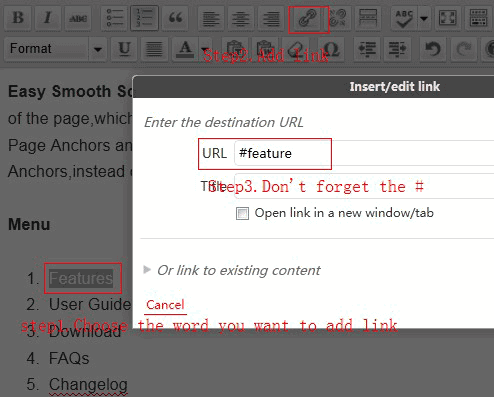
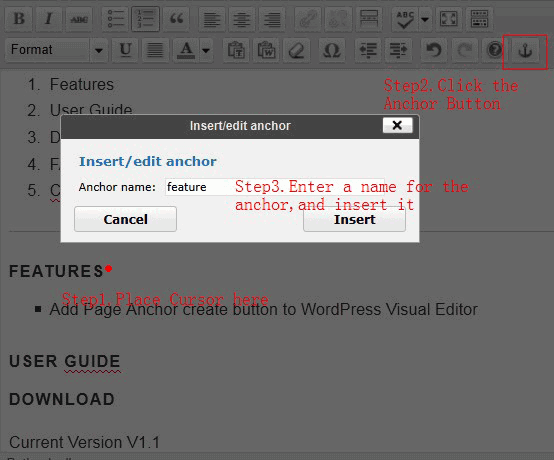
git-svn-id: https://plugins.svn.wordpress.org/easy-smooth-scroll-links/trunk@420375 b8457f37-d9ea-0310-8a92-e5e31aec5664

diff --git a/easy_smooth_scroll_links.php b/easy_smooth_scroll_links.php
@@ -3,7 +3,7 @@
 Plugin Name: Easy Smooth Scroll Links
 Plugin URI: http://www.92app.com/wordpress-plugins/easy-smooth-scroll-links
 Description:Adds smoth scrolling effect to links that link to other parts of the page,which are called "Page Anchors".Extremely useful for setting up a menu which can send you to different section of a post.
-Version: 1.0
+Version: 1.1
 Author: Jeriff Cheng
 Author URI: http://www.92app.com/
 */
@@ -26,7 +26,12 @@ along with this program.  If not, see <http://www.gnu.org/licenses/>.
     
 */
 
-//add anchor button to visual editor
+//load required script in footer
+if(!is_admin()){
+wp_enqueue_script('easy_smooth_scroll_links', plugins_url('easy_smooth_scroll_links.js',__FILE__), false, false, true);
+}
+
+//The invisible way of adding anchors(Anchor button)
 if ( ! function_exists('enable_anchor_button') ) {
 function enable_anchor_button($buttons) {
   $buttons[] = 'anchor';
@@ -35,12 +40,11 @@ function enable_anchor_button($buttons) {
 add_filter("mce_buttons_2", "enable_anchor_button");
 }
 
-//add required js
-if ( ! function_exists('add_smooth_scroll_links_js') ) {
-function add_smooth_scroll_links_js() {
-         ?>
-		 <script type="text/javascript" src="<?php echo get_option('siteurl') . '/' . PLUGINDIR . '/' . dirname(plugin_basename (__FILE__))?>/easy_smooth_scroll_links.js"></script>
-         <?php
-		 }
-add_action(wp_footer,add_smooth_scroll_links_js,20);
+
+//The visible way of adding anchors(Shortcode)
+if ( ! function_exists('essl_shortcode') ) {
+function essl_shortcode( $atts, $content = null ) {
+   return '<a name="' . $content . '">';
+}
+add_shortcode( 'anchor', 'essl_shortcode' );
 }
